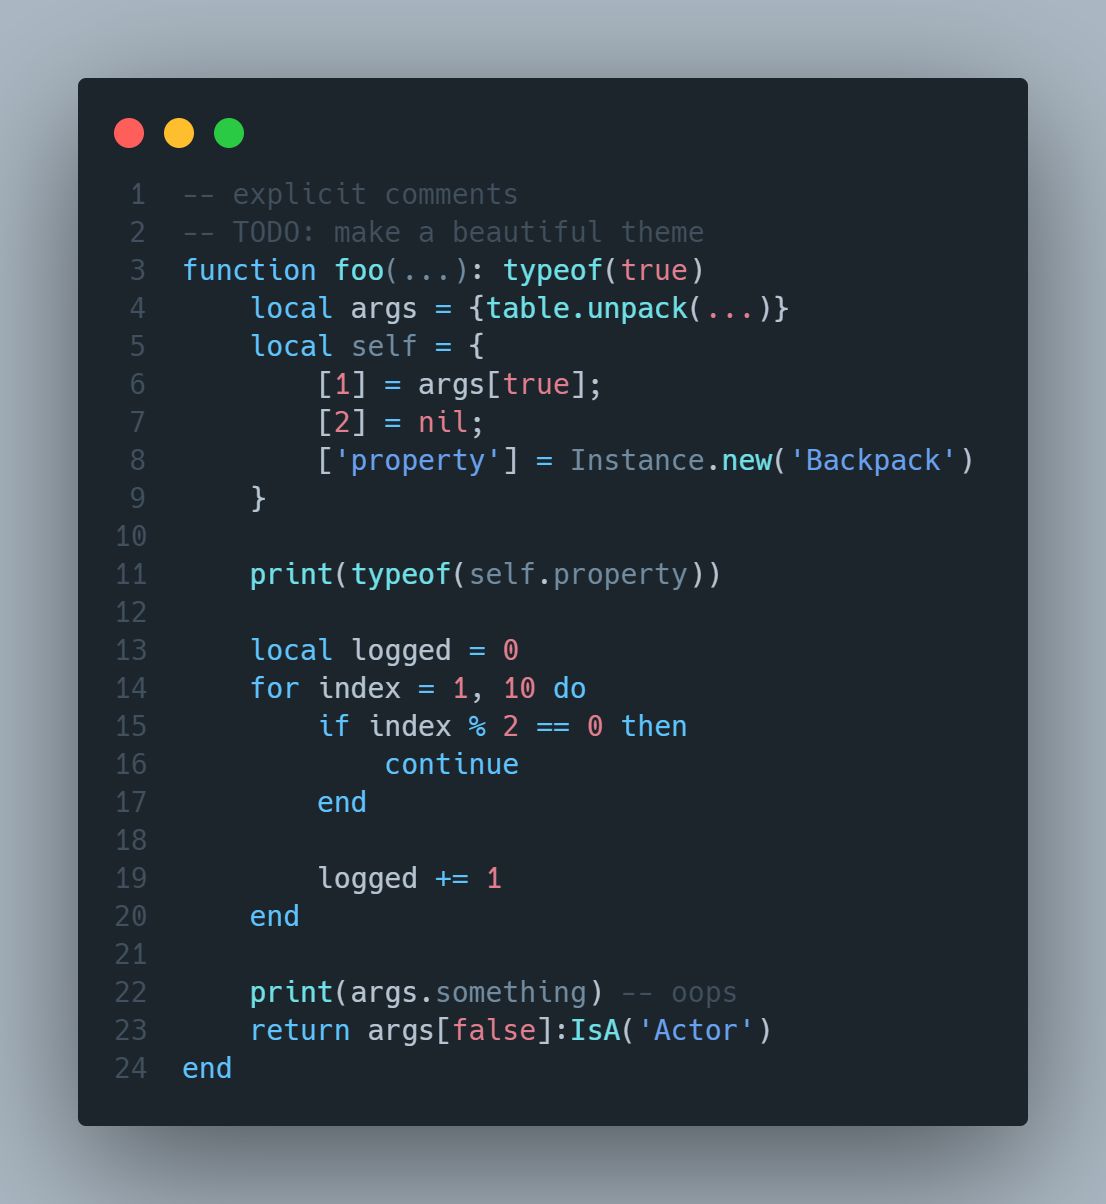
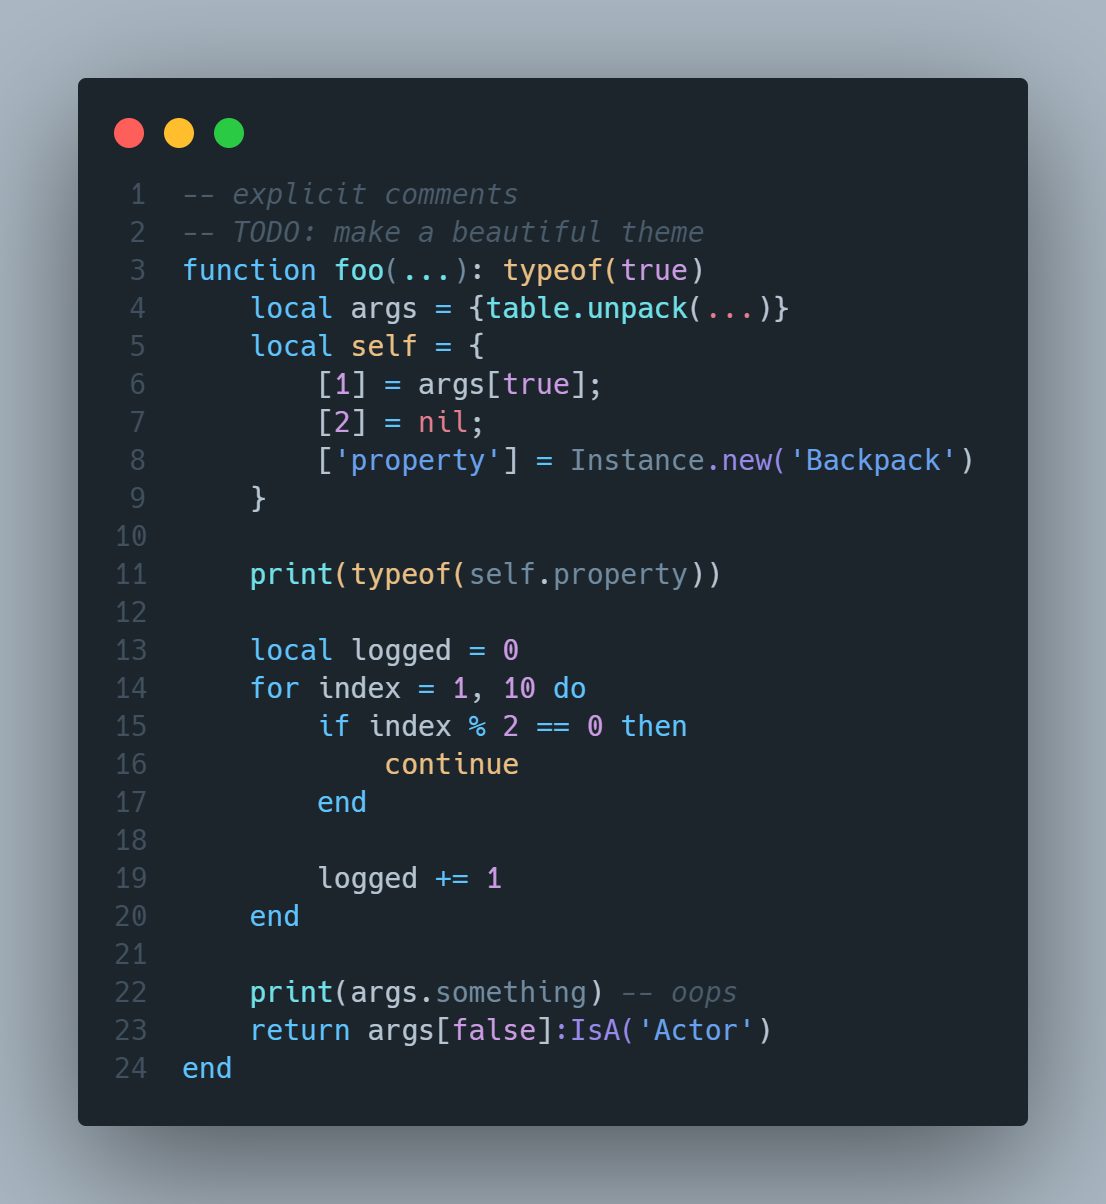
Tweaks to Luau

diff --git a/README.md b/README.md
@@ -7,7 +7,7 @@ A midnight waves theme, compatible with Roblox luau - watch as the waves crash.
 <br/>
 
 <h1>JavaScript:</h1>
-<img alt="JavaScript Example" src="https://raw.githubusercontent.com/Mullets-Gavin/Waves/master/assets/example.png"/>
+<img alt="JavaScript Example" src="https://raw.githubusercontent.com/Mullets-Gavin/Waves/master/assets/javascript.png"/>
 
-<h2>Lua:</h2>
-<img alt="Lua Example" src="https://raw.githubusercontent.com/Mullets-Gavin/Waves/master/assets/example.png"/>
+<h1>Lua:</h1>
+<img alt="Lua Example" src="https://raw.githubusercontent.com/Mullets-Gavin/Waves/master/assets/lua.png"/>
